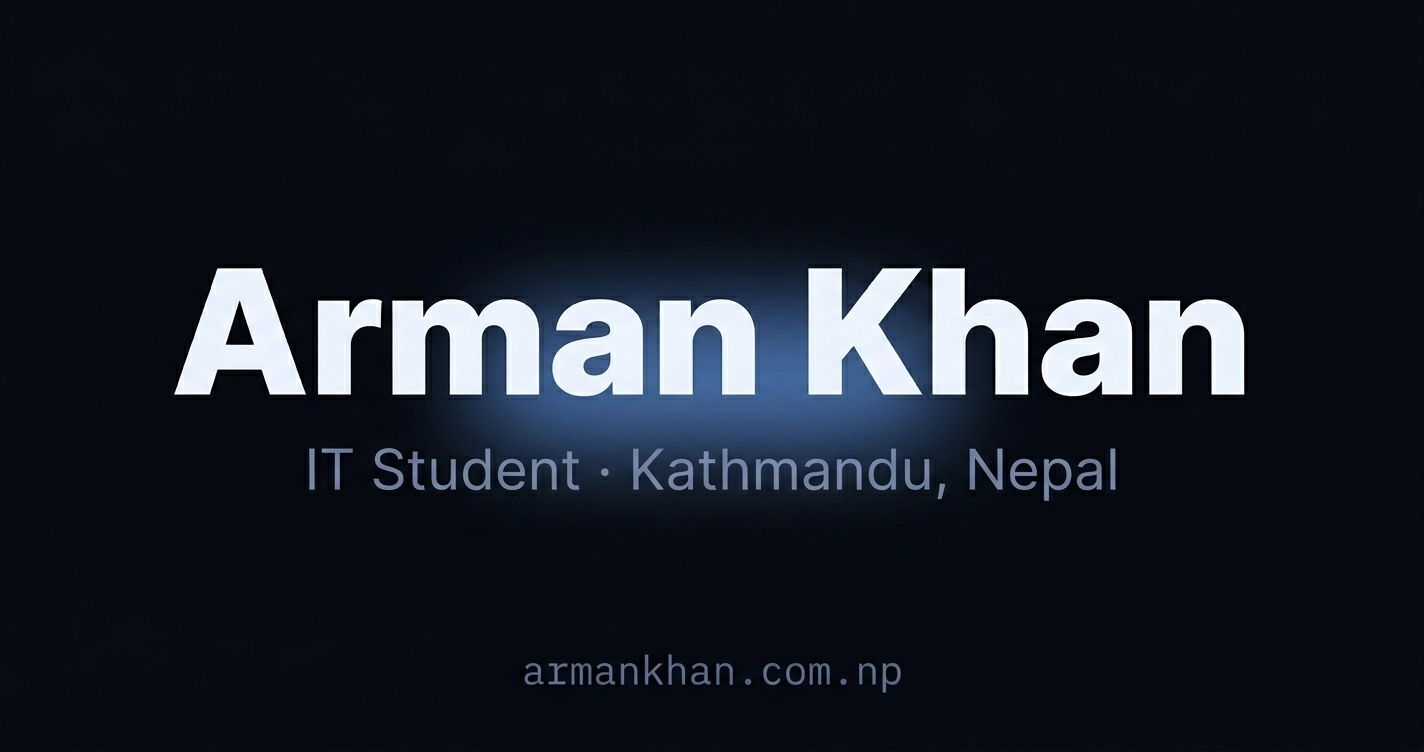
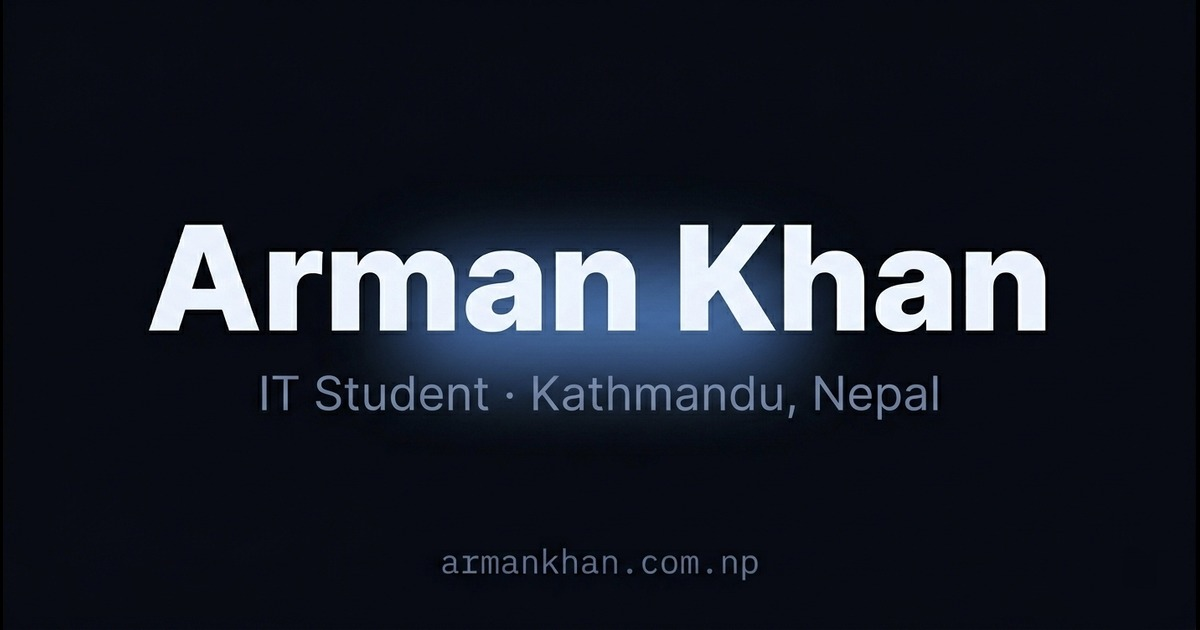
fix: resize og-image to 1200x630 and improve meta title/description

diff --git a/index.html b/index.html
@@ -6,23 +6,23 @@
   <link rel="icon" type="image/svg+xml" href="/favicon.svg" />
   <meta name="viewport" content="width=device-width, initial-scale=1.0" />
   <meta name="description"
-    content="Arman Khan — IT Student & Full-Stack Developer. Building things that live on the internet." />
+    content="I build responsive web apps with React, Node.js, and PostgreSQL. Currently open to internship and junior developer roles." />
   <meta name="author" content="Arman Khan" />
   <meta property="og:type" content="website" />
   <meta property="og:site_name" content="Arman Khan" />
-  <meta property="og:title" content="Arman Khan — Frontend Developer" />
-  <meta property="og:description" content="IT Student & Frontend Developer based in Kathmandu, Nepal." />
+  <meta property="og:title" content="Arman Khan — IT Student & Frontend Developer from Nepal" />
+  <meta property="og:description"
+    content="I build responsive web apps with React, Node.js, and PostgreSQL. Currently open to internship and junior developer roles." />
   <meta property="og:url" content="https://armankhan.com.np" />
   <meta property="og:image" content="https://armankhan.com.np/og-image.jpeg" />
-  <meta name="twitter:card" content="summary_large_image" />
-  <meta name="twitter:title" content="Arman Khan — Frontend Developer" />
-  <meta name="twitter:description" content="IT Student & Frontend Developer based in Kathmandu, Nepal." />
-  <meta name="twitter:image" content="https://armankhan.com.np/og-image.jpeg" />
   <meta property="og:image:width" content="1200" />
   <meta property="og:image:height" content="630" />
+  <meta name="twitter:card" content="summary_large_image" />
+  <meta name="twitter:title" content="Arman Khan — IT Student & Frontend Developer from Nepal" />
+  <meta name="twitter:description"
+    content="I build responsive web apps with React, Node.js, and PostgreSQL. Currently open to internship and junior developer roles." />
+  <meta name="twitter:image" content="https://armankhan.com.np/og-image.jpeg" />
   <title>Arman Khan</title>
-  <link
-    rel="stylesheet">
 </head>
 
 <body>
